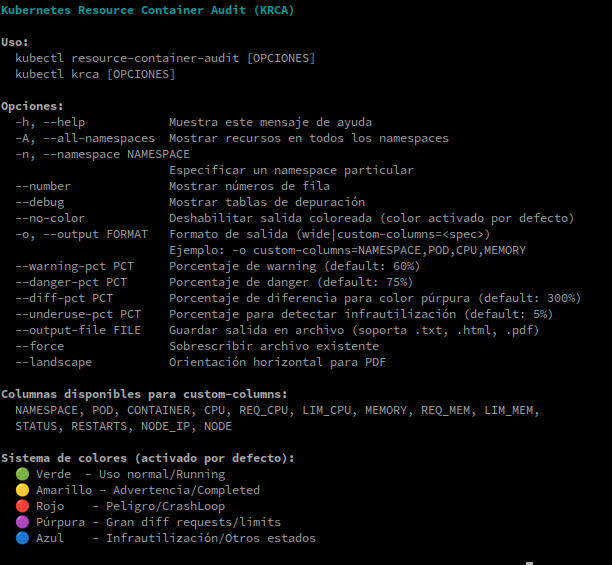
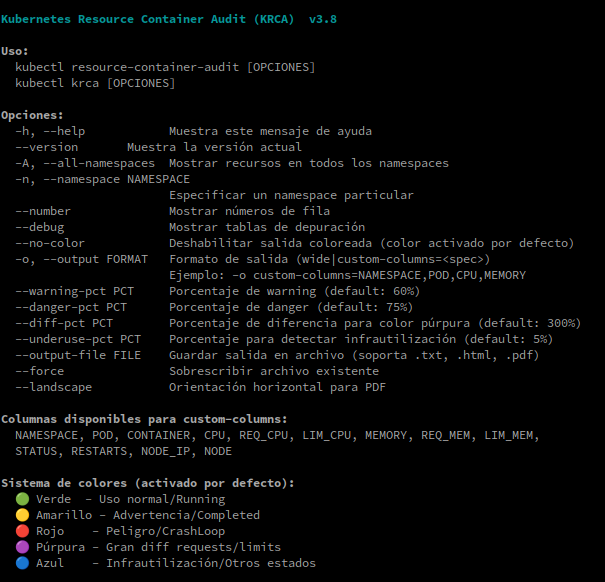
ADD: agregada funcion para mostrar la version

diff --git a/kubectl-resource-container-audit.py b/kubectl-resource-container-audit.py
@@ -2,8 +2,8 @@
 #-----------------------------------------------------------------------------------#
 # kubectl-resource-container-audit (KRCA) - Kubernetes Resource Container Auditor
 # by: upszot
-# Version 3.7 (with improved PDF/HTML export)
 #-----------------------------------------------------------------------------------#
+__version__ = "3.8" 
 
 import argparse
 import subprocess
@@ -50,7 +50,7 @@ AVAILABLE_COLUMNS = {
 def show_help():
     """Muestra el mensaje de ayuda personalizado"""
     help_text = f"""
-{COLOR_CYAN}{COLOR_BOLD}Kubernetes Resource Container Audit (KRCA){COLOR_RESET}
+{COLOR_CYAN}{COLOR_BOLD}Kubernetes Resource Container Audit (KRCA)  v{__version__} {COLOR_RESET}
 
 {COLOR_BOLD}Uso:{COLOR_RESET}
   kubectl resource-container-audit [OPCIONES]
@@ -58,6 +58,7 @@ def show_help():
 
 {COLOR_BOLD}Opciones:{COLOR_RESET}
   -h, --help            Muestra este mensaje de ayuda
+  --version       Muestra la versión actual
   -A, --all-namespaces  Mostrar recursos en todos los namespaces
   -n, --namespace NAMESPACE
                         Especificar un namespace particular
@@ -86,6 +87,11 @@ def show_help():
   🔵 Azul    - Infrautilización/Otros estados
 """
     print(help_text)
+    sys.exit(0)
+
+def show_version():
+    """Muestra la versión actual"""
+    print(f"kubectl-resource-container-audit v{__version__}")
     sys.exit(0)
 
 def check_dependencies():
@@ -557,6 +563,7 @@ def parse_custom_columns(spec):
     
     return valid_columns if valid_columns else None
 
+
 def main():
     # Verificar si se ejecuta como plugin de kubectl
     if os.path.basename(sys.argv[0]) in ['kubectl-resource-container-audit', 'kubectl-krca']:
@@ -564,7 +571,10 @@ def main():
         if len(sys.argv) > 1 and not sys.argv[1].startswith('-'):
             sys.argv.insert(1, '--')
 
-    parser = argparse.ArgumentParser(description="Kubernetes Resource Container Audit (KRCA)", add_help=False)
+    parser = argparse.ArgumentParser(
+        description=f"Kubernetes Resource Container Audit (KRCA) v{__version__}",
+        add_help=False
+    )
     group = parser.add_mutually_exclusive_group()
     group.add_argument("-A", "--all-namespaces", action="store_true", help="All namespaces")
     group.add_argument("-n", "--namespace", help="Kubernetes namespace")
@@ -576,6 +586,7 @@ def main():
     parser.add_argument("--force", action="store_true", help="Overwrite existing output file")
     parser.add_argument("--landscape", action="store_true", help="Landscape orientation for PDF")
     parser.add_argument("-h", "--help", action="store_true", help="Show this help message and exit")
+    parser.add_argument("--version", action="store_true", help="Show version information and exit")  # Línea añadida
     
     # Parámetros configurables para los umbrales
     parser.add_argument("--warning-pct", type=int, default=DEFAULT_WARNING_PCT,
@@ -588,6 +599,10 @@ def main():
                        help=f"Underuse threshold percentage (default: {DEFAULT_UNDERUSE_PCT}%%)")
     
     args = parser.parse_args()
+
+    # Verificar --version PRIMERO (antes que --help)
+    if args.version:
+        show_version()
 
     # Mostrar ayuda si se solicita
     if args.help:

diff --git a/README.md b/README.md
@@ -17,7 +17,7 @@ Ideal para detectar:
 Ahora puedes instalar `kubectl-resource-container-audit` fácilmente con:  
 
 ```bash
-curl -sSL https://raw.githubusercontent.com/upszot/kubectl-resource-container-audit/v3.7/install-krca.sh | bash
+curl -sSL https://raw.githubusercontent.com/upszot/kubectl-resource-container-audit/refs/heads/master/install-krca.sh | bash
 ```
 
 ✅ Requisitos

diff --git a/Changelog.md b/Changelog.md
@@ -1,5 +1,9 @@
 # Changelog
 
+## Version 3.8
+ - [x] Added:
+    - Opción `--version` para mostrar la versión de la aplicación
+
 ## Version 3.7
  - [x] Added:
     - Soporte mejorado para exportación a HTML/PDF
